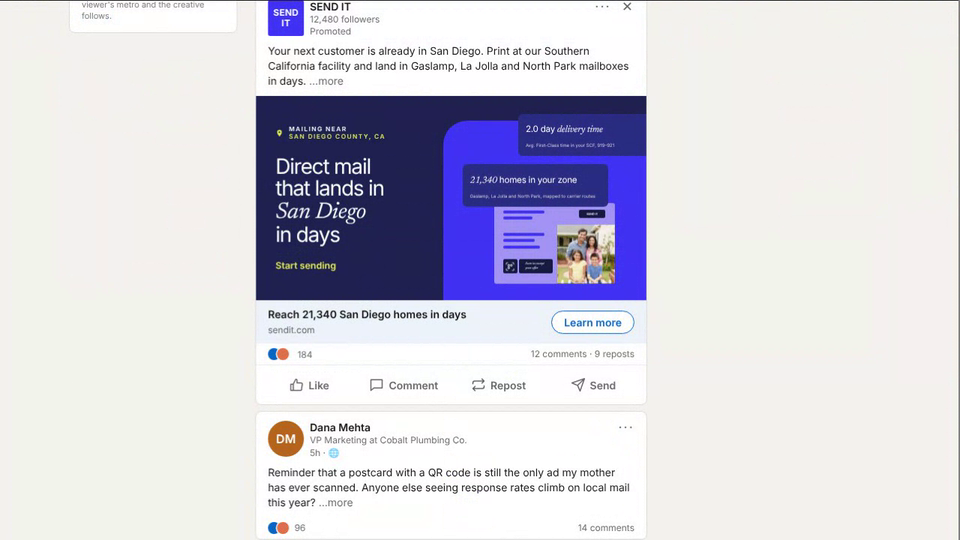
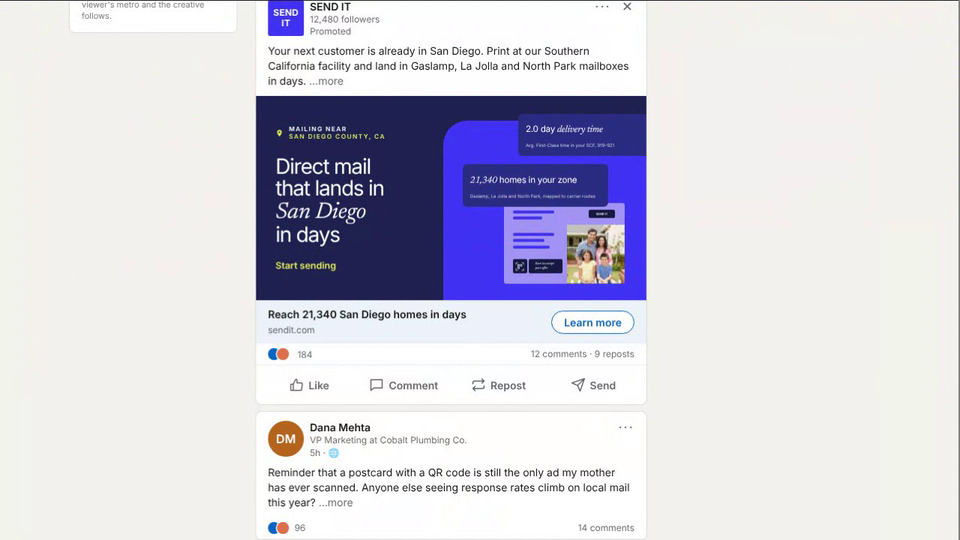
Paid Ad Pipeline: postcard slightly right
Claude-Session: https://claude.ai/code/session_01AHeBe16MbJ3hGUT21NJCss

Changed region(s): [[0.5, 0.3556, 0.6562, 0.5333]]

diff --git a/paid-ad-pipeline/index.html b/paid-ad-pipeline/index.html
@@ -79,7 +79,7 @@ nav.back span{color:#6e6e6e}nav.back b{font-weight:500;color:#fff;overflow:hidde
 .cr .bl strong{display:block;font:400 3.6cqw/1.1 var(--sans);letter-spacing:-.02em}.cr .bl strong i{font:italic 400 3.8cqw var(--serif)}
 .cr .bl p{font:400 1.85cqw/1.4 var(--sans);color:rgba(255,255,255,.75);margin-top:1.2cqw}
 .cr .box{position:absolute;left:0;right:0;top:7%;bottom:0;background:var(--purple);border-radius:32px;overflow:hidden}
-.cr .mail{position:absolute;z-index:2;left:21%;top:41%;width:50%;aspect-ratio:1.5;border-radius:3px;overflow:hidden;background:#a393f5}
+.cr .mail{position:absolute;z-index:2;left:25%;top:41%;width:50%;aspect-ratio:1.5;border-radius:3px;overflow:hidden;background:#a393f5}
 .cr .mail .el{position:absolute}
 .cr .mail .bar2{background:var(--purple);border-radius:99px}
 .cr .mail .tag{background:var(--deep);color:#fff;border-radius:2px;font:600 1.2cqw/1 var(--sans);display:flex;align-items:center;justify-content:center}
